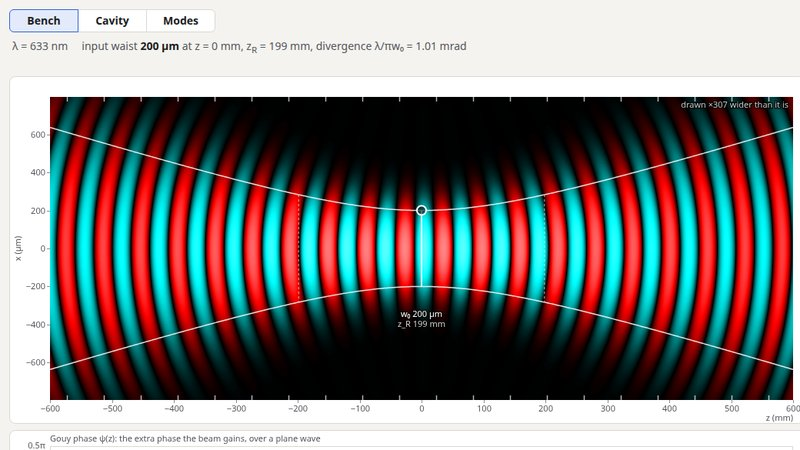
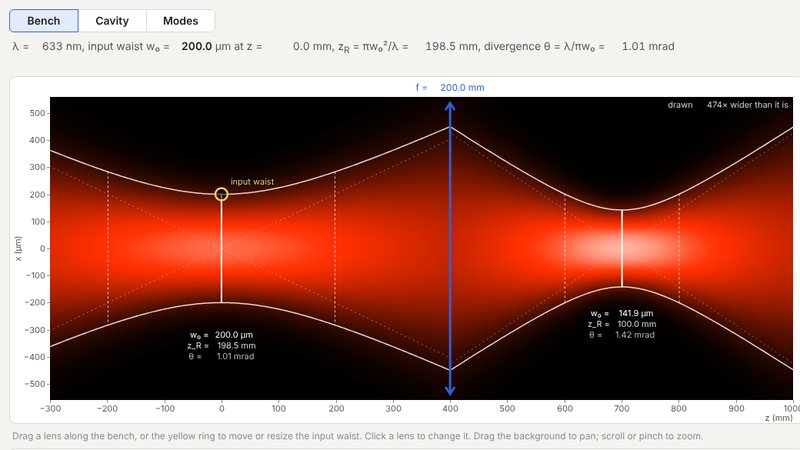
Gaussian beams: canvases that fit a phone; the thumbnail from the opening view
On a phone the cavity's two mirror labels ran into each other, the spectrum's title into its
legend and its axis label off both ends, and the side view's and the Gouy plot's titles past
the edge; each now has a short form for narrow canvases.  The "planar" landmark sat under the
default point; it is above the corner now.  The phase picture was overexposed to pastel, and
the slab's tint washed out the crests inside it.  The waist table's note for a virtual waist
fits its column.  docs/beams.jpg is made from #setup=start.

Claude-Session: https://claude.ai/code/session_01Uf588EmEoW67UxQKckEGyR

diff --git a/beams/cavity-view.js b/beams/cavity-view.js
@@ -167,8 +167,9 @@ export function createCavity(app) {
     ctx.fillText(um ? 'x (µm)' : 'x (mm)', 0, 0);
     ctx.restore();
     ctx.font = '12px system-ui, sans-serif'; ctx.fillStyle = c.ink2; ctx.textBaseline = 'alphabetic';
-    ctx.textAlign = 'left'; fillSlots(ctx, ['mirror 1: R₁ = ', ...lenParts(state.R1, 7)], F.left, 15);
-    ctx.textAlign = 'right'; fillSlots(ctx, ['mirror 2: R₂ = ', ...lenParts(state.R2, 7), '  (drag it)'], F.right, 15);
+    const wide = F.w > 440;
+    ctx.textAlign = 'left'; fillSlots(ctx, [wide ? 'mirror 1: R₁ = ' : 'R₁ = ', ...lenParts(state.R1, 6, { mm: 1 })], F.left, 15);
+    ctx.textAlign = 'right'; fillSlots(ctx, [wide ? 'mirror 2: R₂ = ' : 'R₂ = ', ...lenParts(state.R2, 6, { mm: 1 }), wide ? '  (drag it)' : ' (drag)'], F.right, 15);
   }
 
   // ------------------------------------------------------------------- the stability diagram
@@ -209,11 +210,11 @@ export function createCavity(app) {
     ctx.stroke(); ctx.setLineDash([]);
     // Landmarks.
     ctx.font = '11px system-ui, sans-serif'; ctx.fillStyle = c.ink2;
-    const marks = [[1, 1, 'planar', 'right', 'top'], [0, 0, 'confocal', 'left', 'top'], [-1, -1, 'concentric', 'left', 'top'], [1, 0, 'hemispherical', 'left', 'top']];
+    const marks = [[1, 1, 'planar', 'left', 'bottom'], [0, 0, 'confocal', 'left', 'top'], [-1, -1, 'concentric', 'left', 'top'], [1, 0, 'hemispherical', 'left', 'top']];
     for (const [a, b, name, align, base] of marks) {
       ctx.beginPath(); ctx.arc(F.X(a), F.Y(b), 3.5, 0, 2 * Math.PI); ctx.fill();
       ctx.textAlign = align; ctx.textBaseline = base;
-      ctx.fillText(name, F.X(a) + (align === 'left' ? 5 : -5), F.Y(b) + 4);
+      ctx.fillText(name, F.X(a) + (align === 'left' ? 5 : -5), F.Y(b) + (base === 'top' ? 4 : -4));
     }
     ctx.fillStyle = c.good; ctx.textAlign = 'right'; ctx.textBaseline = 'bottom';
     ctx.fillText('g₁g₂ = 1', F.X(G) - 4, F.Y(1 / G) - 4);
@@ -246,11 +247,11 @@ export function createCavity(app) {
     const { ctx, width, height } = fitCanvas(spec);
     const c = themeColors();
     ctx.clearRect(0, 0, width, height);
-    const F = new Frame(ctx, width, height, { left: 52, right: 14, top: 24, bottom: 34 });
+    const F = new Frame(ctx, width, height, { left: 52, right: 24, top: 24, bottom: 34 });
     F.x0 = -0.04; F.x1 = 2.04; F.y0 = 0; F.y1 = 1.2;
     const FSR = fsr(state.L), q0 = q0Now();
     ctx.font = '12px system-ui, sans-serif'; ctx.fillStyle = c.ink2; ctx.textAlign = 'left'; ctx.textBaseline = 'alphabetic';
-    ctx.fillText(F.w > 560 ? 'Resonant frequencies of the modes of order N (N + 1 modes each)' : 'Resonances, by order N', F.left, 15);
+    ctx.fillText(F.w > 560 ? 'Resonant frequencies of the modes of order N (N + 1 modes each)' : 'Resonances', F.left, 15);
     F.clip();
     // The plain comb q c/2L, without the Gouy phase.
     ctx.strokeStyle = c.ink3; ctx.lineWidth = 1; ctx.setLineDash([2, 3]);
@@ -285,15 +286,14 @@ export function createCavity(app) {
     spectrumAxes(ctx, F, c, FSR, q0);
     // A legend of colours.
     ctx.textAlign = 'left'; ctx.textBaseline = 'middle'; ctx.font = '12px system-ui, sans-serif';
-    let x = F.right - 7 * 28;
-    if (x > F.left + 300 || F.w < 560) {
-      ctx.fillStyle = c.ink2; ctx.textAlign = 'right'; ctx.fillText('N =', x - 6, 11); ctx.textAlign = 'left';
-      for (let N = 0; N <= 6; N++) {
-        ctx.fillStyle = N === 0 ? c.accent : N_COLORS[N];
-        ctx.fillRect(x, 6, 4, 11);
-        ctx.fillStyle = c.ink2; ctx.fillText(`${N}`, x + 8, 11);
-        x += 28;
-      }
+    const step = F.w > 560 ? 28 : 22;
+    let x = F.right - 7 * step;
+    ctx.fillStyle = c.ink2; ctx.textAlign = 'right'; ctx.fillText('N =', x - 6, 11); ctx.textAlign = 'left';
+    for (let N = 0; N <= 6; N++) {
+      ctx.fillStyle = N === 0 ? c.accent : N_COLORS[N];
+      ctx.fillRect(x, 6, 4, 11);
+      ctx.fillStyle = c.ink2; ctx.fillText(`${N}`, x + 8, 11);
+      x += step;
     }
   }
   /** The longitudinal index of the plot's left edge: the comb just below c/lambda. */
@@ -303,7 +303,8 @@ export function createCavity(app) {
     ctx.font = '11px system-ui, sans-serif'; ctx.fillStyle = c.ink2; ctx.textAlign = 'center'; ctx.textBaseline = 'top';
     for (let q = 0; q <= 2; q++) ctx.fillText(q ? `q₀ + ${q}` : 'q₀', F.X(q), F.bottom + 5);
     for (const v of [0.5, 1.5]) ctx.fillText(tickLabel(v), F.X(v), F.bottom + 5);
-    fillSlots(ctx, ['ν in units of c/2L = ', ...freqParts(FSR), ', above q₀ c/2L, q₀ = ', { v: q0, dec: 0, w: 7 }], F.left + F.w / 2, F.bottom + 19);
+    fillSlots(ctx, F.w > 480 ? ['ν in units of c/2L = ', ...freqParts(FSR), ', above q₀ c/2L, q₀ = ', { v: q0, dec: 0, w: 7 }]
+      : ['ν / (c/2L), q₀ = ', { v: q0, dec: 0, w: 7 }], F.left + F.w / 2, F.bottom + 19);
   }
 
   // ------------------------------------------------------------------- rays in phase space

diff --git a/beams/modes-view.js b/beams/modes-view.js
@@ -53,7 +53,8 @@ export function createModes(app) {
     ctx.font = '12px system-ui, sans-serif'; ctx.textAlign = 'left'; ctx.textBaseline = 'top';
     haloSlots(ctx, [`${name()} at z = `, { v: z, dec: 2, w: 5 }, ' z_R'], 8, 8);
     ctx.textBaseline = 'bottom';
-    haloSlots(ctx, ['dashed: r = w(z) = ', { v: w, dec: 3, w: 5 }, ' w₀; the square is ', { v: 2 * half, dec: 2, w: 5 }, ' w₀ wide'], 8, width - 8, 'rgba(255,255,255,0.8)');
+    haloSlots(ctx, width > 420 ? ['dashed: r = w(z) = ', { v: w, dec: 3, w: 5 }, ' w₀; the square is ', { v: 2 * half, dec: 2, w: 5 }, ' w₀ wide']
+      : ['dashed: w(z) = ', { v: w, dec: 3, w: 5 }, ' w₀'], 8, width - 8, 'rgba(255,255,255,0.8)');
     if (state.fft) { ctx.textAlign = 'right'; ctx.textBaseline = 'top'; haloText(ctx, 'computed by FFT', width - 8, 8, '#ffd166'); }
     if (state.cross === 'phase') {
       if (!wheel) { wheel = document.createElement('canvas'); wheel.width = wheel.height = 56; drawWheel(wheel, 1, 1.6); }
@@ -209,9 +210,10 @@ export function createModes(app) {
     ctx.restore();
     F.axes({ colors: c });
     ctx.font = '11px system-ui, sans-serif'; ctx.fillStyle = c.ink2; ctx.textAlign = 'left'; ctx.textBaseline = 'alphabetic';
-    ctx.fillText(sf.y0 ? `from the side: the plane y = ${sf.y0} w₀ (y = 0 is dark for odd n)` : 'from the side: the plane y = 0', F.left, 14);
+    const wide = F.w > 520;
+    ctx.fillText(sf.y0 ? (wide ? `from the side: the plane y = ${sf.y0} w₀ (y = 0 is dark for odd n)` : `side view, y = ${sf.y0} w₀`) : (wide ? 'from the side: the plane y = 0' : 'side view, y = 0'), F.left, 14);
     ctx.textAlign = 'right';
-    ctx.fillText(state.side === 'real' ? 'ticks: a plane wave\'s crests' : '', F.right, 14);
+    ctx.fillText(state.side === 'real' ? (wide ? 'ticks: a plane wave\'s crests' : 'ticks: plane wave') : '', F.right, 14);
     ctx.textAlign = 'right'; ctx.textBaseline = 'top';
     ctx.fillText('z / z_R', F.right, F.bottom + 16);
     ctx.save(); ctx.translate(11, F.top + F.h / 2); ctx.rotate(-Math.PI / 2); ctx.textAlign = 'center'; ctx.textBaseline = 'middle';
@@ -244,7 +246,7 @@ export function createModes(app) {
     ctx.font = '11px system-ui, sans-serif'; ctx.fillStyle = c.ink2; ctx.textAlign = 'right'; ctx.textBaseline = 'middle';
     for (let v = -top; v <= top + 1e-9; v += top > 2 ? 1 : 0.5) ctx.fillText(`${tickLabel(v)}π`, F.left - 5, F.Y(v));
     ctx.textAlign = 'left'; ctx.textBaseline = 'alphabetic';
-    ctx.fillText(`Gouy phase (N+1)·atan(z/z_R), N = ${N}${N > 0 ? '; dashed: the fundamental, N = 0' : ''}`, F.left, 14);
+    ctx.fillText(`Gouy phase (N+1)·atan(z/z_R), N = ${N}${N > 0 ? (F.w > 480 ? '; dashed: the fundamental, N = 0' : '; dashed: N = 0') : ''}`, F.left, 14);
     ctx.textAlign = 'right'; ctx.textBaseline = 'top'; ctx.fillText('z / z_R', F.right, F.bottom + 16);
   }
 

diff --git a/beams/bench-view.js b/beams/bench-view.js
@@ -168,7 +168,7 @@ export function createBench(app) {
     field.aRef = Math.sqrt(Math.min(Imax / 2.5, Ilow / 0.43) / (1 + 0.5 * m)) * 10 ** (-state.bright / 2);
     if (mode === 'real') field.table = realTable(0.5 * field.aRef);
     else if (mode === 'intensity') field.table = intensityTable(wavelengthRGB(state.lambda), field.aRef * field.aRef);
-    else if (mode === 'phase') colorize(re, im, field.img.data, 0.5 * field.aRef, 'complex');
+    else if (mode === 'phase') colorize(re, im, field.img.data, field.aRef, 'complex');
     return field;
   }
 
@@ -221,7 +221,7 @@ export function createBench(app) {
     state.elements.forEach((e) => {
       if (e.type !== 'slab') return;
       const a = Zp(e.z), b = Zp(e.z + e.t);
-      ctx.fillStyle = 'rgba(120,170,255,0.13)'; ctx.fillRect(a, F.top, b - a, F.h);
+      ctx.fillStyle = 'rgba(120,170,255,0.08)'; ctx.fillRect(a, F.top, b - a, F.h);
       ctx.strokeStyle = e === state.sel ? c.accent : 'rgba(160,200,255,0.7)'; ctx.lineWidth = e === state.sel ? 2 : 1;
       ctx.beginPath(); ctx.moveTo(a, F.top); ctx.lineTo(a, F.bottom); ctx.moveTo(b, F.top); ctx.lineTo(b, F.bottom); ctx.stroke();
     });
@@ -590,7 +590,7 @@ export function createBench(app) {
       const seg = w.seg;
       const name = i === 0 ? 'input beam' : seg.n !== 1 ? `in glass (n = ${fmt(seg.n, 3)})` : `after ${seg.after ? elementName(seg.after).toLowerCase() : '?'}`;
       const real = w.real;
-      const note = !real ? 'virtual (the light never reaches it)' : w.z < state.vz0 || w.z > state.vz1 ? 'off this view' : '';
+      const note = !real ? 'virtual: never reached' : w.z < state.vz0 || w.z > state.vz1 ? 'off this view' : '';
       const td = (parts) => { const e = el('td'); setSlots(e, parts); return e; };
       rows.push(el('tr', { class: real ? '' : 'virtual' },
         td(seg.n !== 1 && i > 0 ? ['in glass (n = ', { v: seg.n, dec: 3, w: 5 }, ')'] : [name]),

diff --git a/tests/ui/beams.py b/tests/ui/beams.py
@@ -325,7 +325,8 @@ with Browser('beams/index.html', size=SIZE) as b:
     xs = []
     for v in (70.7, 3.25, 1500, 12, 250.5):
         set_box(b, '#view-box', 'drawn wider ×', v)(); settle(b, '#crest-note'); b.sleep(0.3)
-        xs.append(b.eval("[__seen['drawn '], __seen['× wider than it is']].map(v => v === undefined ? null : v)"))
+        # The long form on a wide bench, "×1290 wider" on a phone.
+        xs.append(b.eval("(__seen['drawn '] !== undefined ? [__seen['drawn '], __seen['× wider than it is']] : [__seen['×'], __seen[' wider']]).map(v => v === undefined ? null : v)"))
     check(all(x == xs[0] for x in xs) and None not in xs[0], f'bench: "drawn … × wider than it is" keeps its words in place as the stretch changes ({xs})')
     b.eval('__app.setups.stability()'); b.sleep(0.5)
     CAV = '#cavity-readout > span, #cavity-readout .fixnum, #cav-numbers dt, #cav-numbers dd, #cav-numbers .fixnum, #ray-box button'
